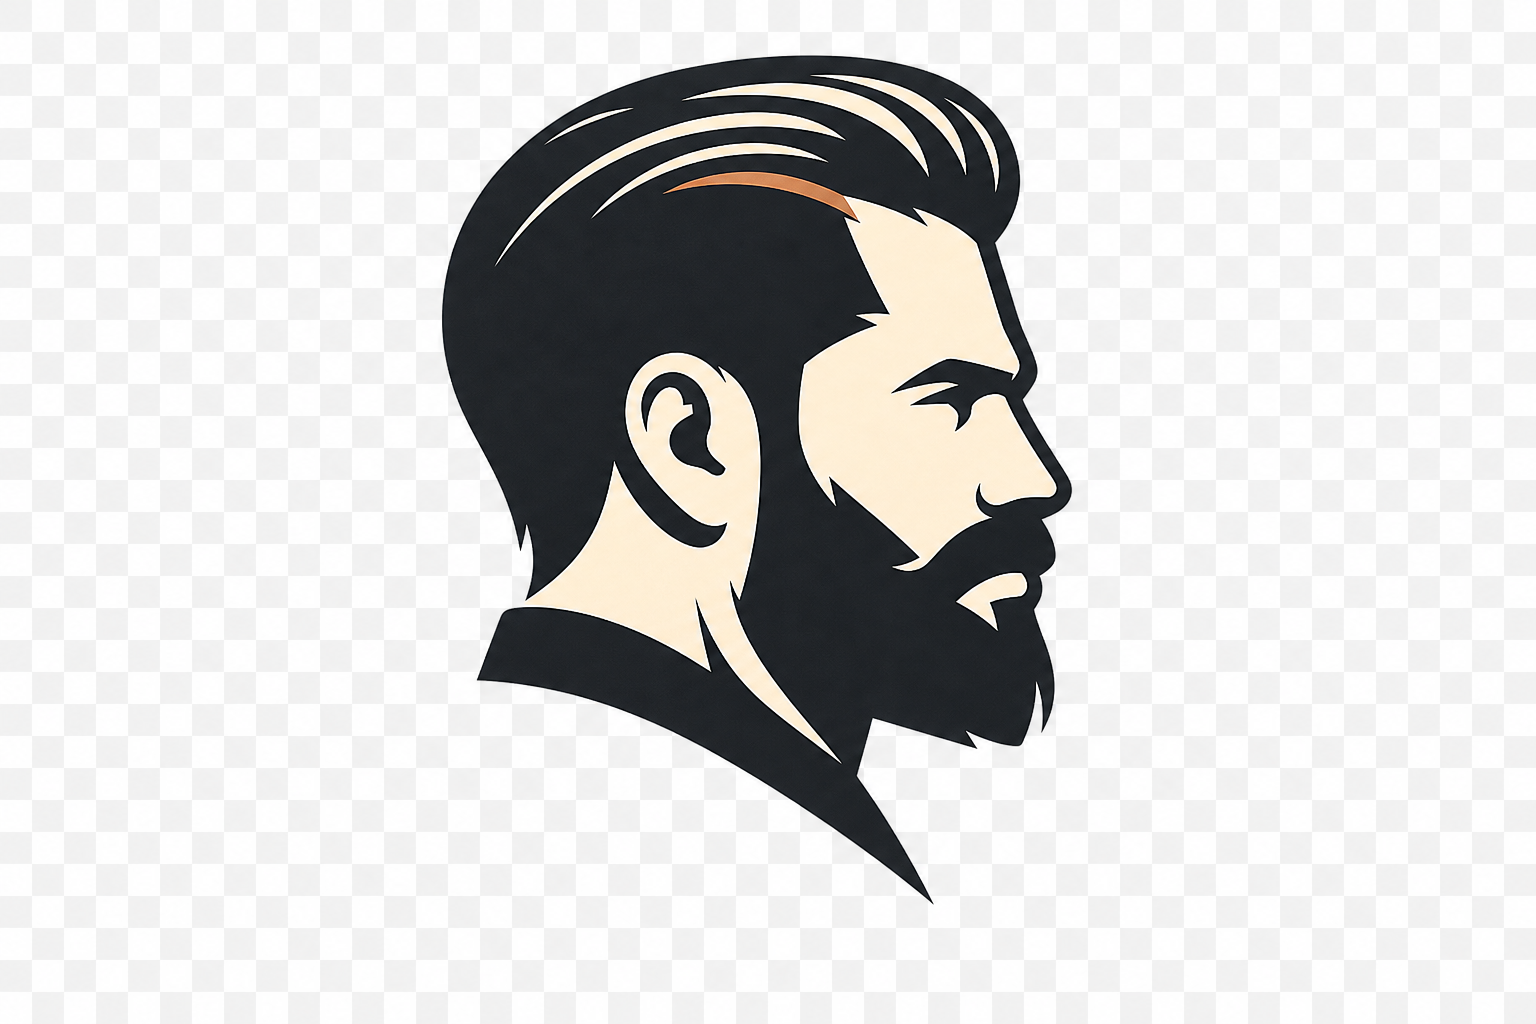
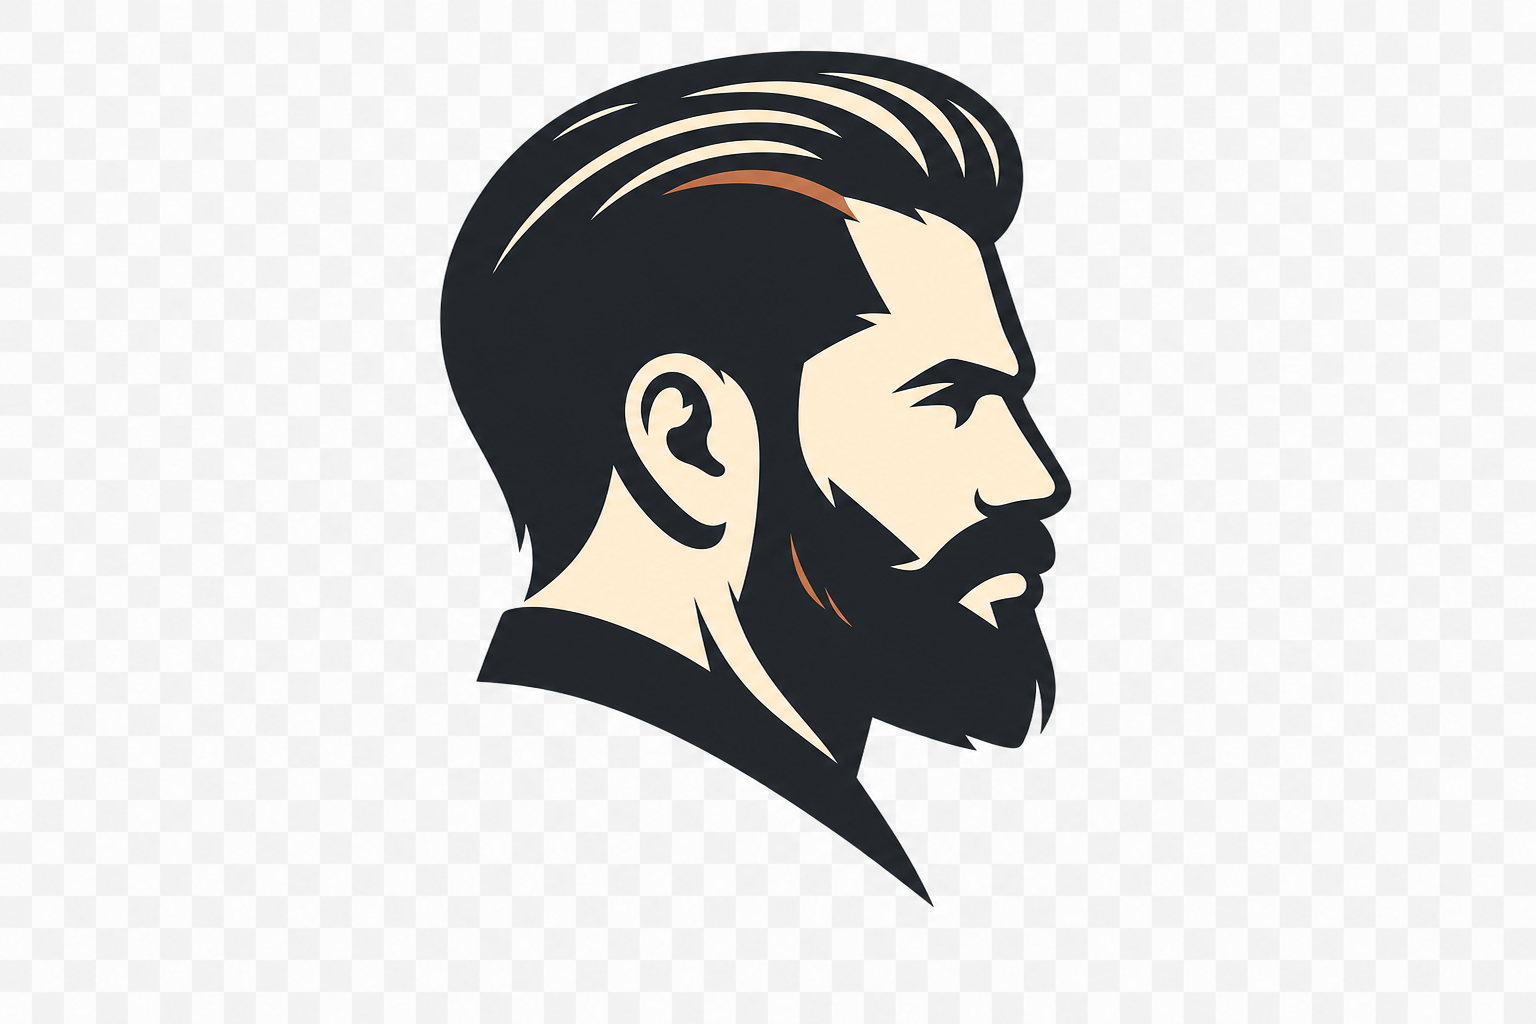
Update header PNG and add golden hover aura

diff --git a/assets/css/cloudflare-site.css b/assets/css/cloudflare-site.css
@@ -117,14 +117,53 @@ main {
   cursor: pointer;
 }
 
+.brand-button {
+  position: relative;
+  border-radius: 18px;
+  transition: transform 180ms ease, filter 220ms ease;
+}
+
+.brand-button::after {
+  content: "";
+  position: absolute;
+  inset: 18% 42% 18% 0;
+  border-radius: 999px;
+  background: radial-gradient(circle, rgba(214, 168, 90, 0.16), transparent 68%);
+  opacity: 0.8;
+  filter: blur(18px);
+  pointer-events: none;
+  transition: opacity 220ms ease, filter 220ms ease, transform 220ms ease;
+}
+
+.brand-button:hover {
+  transform: translateY(-1px);
+}
+
+.brand-button:hover::after {
+  opacity: 1;
+  filter: blur(24px);
+  transform: scale(1.04);
+}
+
 .brand img {
+  position: relative;
+  z-index: 1;
   width: 112px;
   height: auto;
-  transition: width 220ms ease, transform 220ms ease;
+  filter:
+    drop-shadow(0 0 10px rgba(214, 168, 90, 0.12))
+    drop-shadow(0 8px 14px rgba(0, 0, 0, 0.18));
+  transition: width 220ms ease, transform 220ms ease, filter 220ms ease;
 }
 
 .topbar.is-compact .brand img {
   width: 88px;
+}
+
+.brand-button:hover img {
+  filter:
+    drop-shadow(0 0 14px rgba(214, 168, 90, 0.24))
+    drop-shadow(0 10px 16px rgba(0, 0, 0, 0.2));
 }
 
 .brand-copy {
@@ -776,6 +815,10 @@ h3 {
   .brand img,
   .topbar.is-compact .brand img {
     width: 72px;
+  }
+
+  .brand-button::after {
+    inset: 20% 36% 20% 0;
   }
 
   .brand-copy {